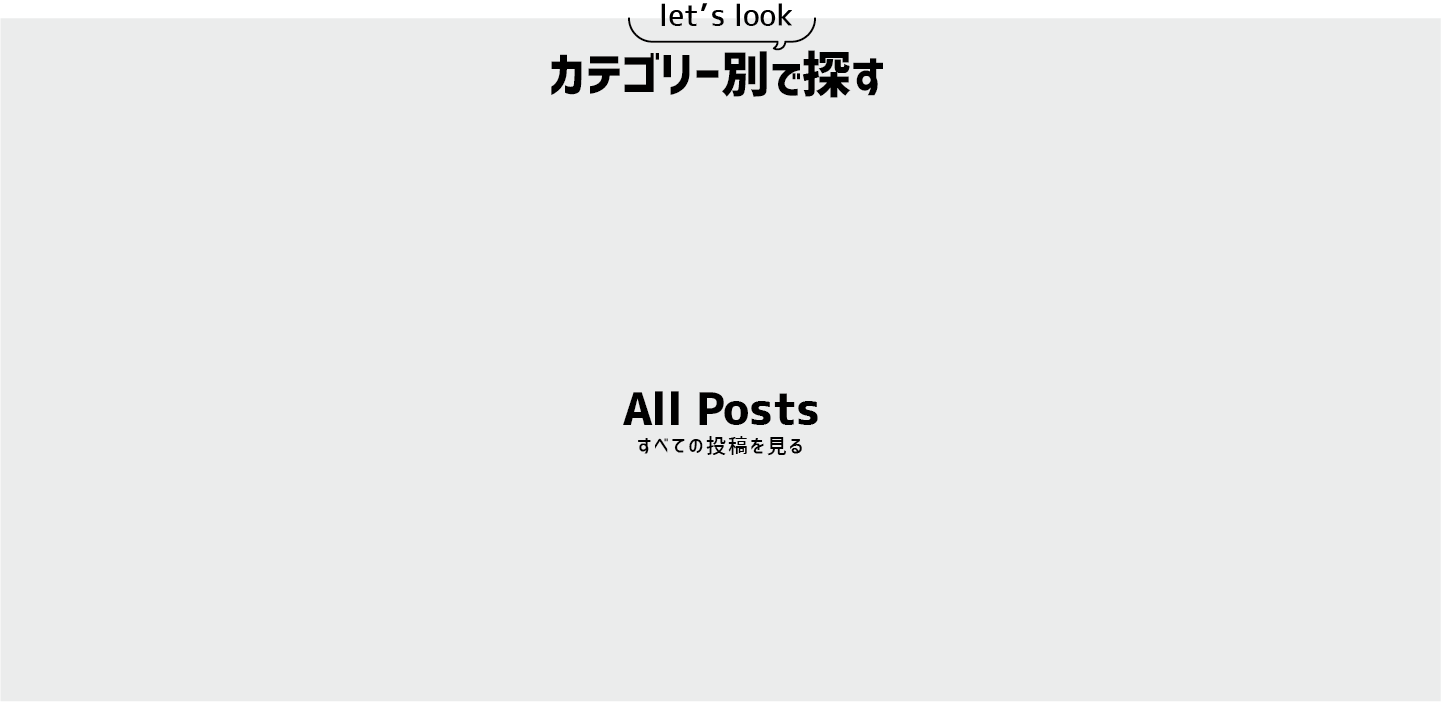
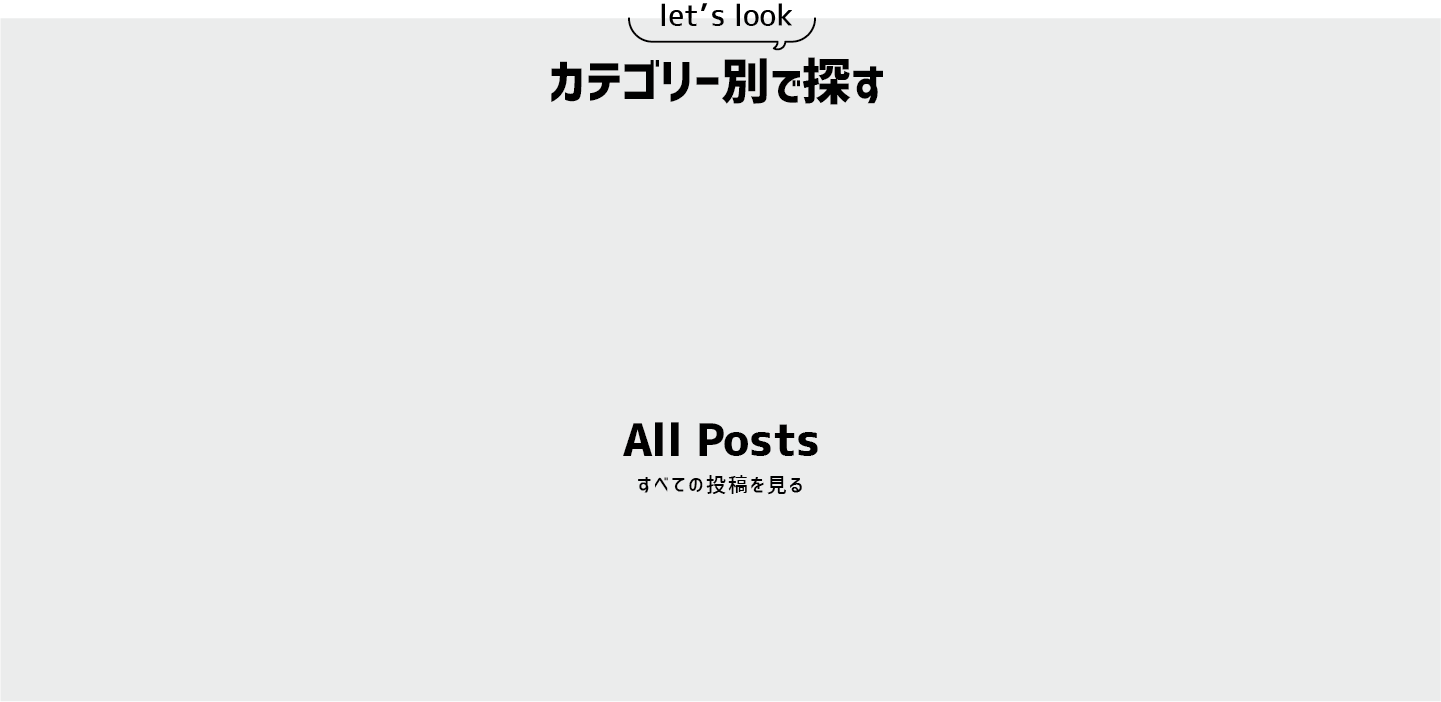
すべての投稿ページ作成

Changed region(s): [[0.4372, 0.5385, 0.5933, 0.7179], [0.3747, 0.0598, 0.6246, 0.1496]]

diff --git a/app/assets/stylesheets/home.scss b/app/assets/stylesheets/home.scss
@@ -227,7 +227,7 @@ ul{
 
 .category-content{
   position: relative;
-  height: 700px;
+  height: 660px;
   color: $TextColor;
   background-image: url('category-back-img.png');
 
@@ -250,18 +250,17 @@ ul{
   }
 
   & .all-posts{
-    width: 170px;
-    height: 40px;
+    width: 120px;
+    height: 30px;
     position: absolute;
-    top: 500px;
-    left: 50%;
+    top: 530px;
+    left: 75%;
     transform: translate(-50%, 0);
+    padding: 10px 0;
     border: 1px solid $MainColor;
-    border-radius: 5px;
     text-decoration: none;
     text-align: center;
-    font-size: 23px;
-    font-weight: 600;
+    font-size: 17px;
     color: $MainColor;
   }
 

diff --git a/app/assets/stylesheets/posts.scss b/app/assets/stylesheets/posts.scss
@@ -198,6 +198,7 @@ $TextColor: #001100;
     text-align: center;
     font-weight: 600;
     margin-top: 50px;
+    color: $MainColor;
   }
 
   & .index-content{

diff --git a/app/controllers/application_controller.rb b/app/controllers/application_controller.rb
@@ -1,5 +1,5 @@
 class ApplicationController < ActionController::Base
-  before_action :authenticate_user!, except: [:top, :search, :show, :basic, :feminine, :colorful, :stylish, :sneaker]
+  before_action :authenticate_user!, except: [:top, :search, :show, :basic, :feminine, :colorful, :stylish, :sneaker, :all_posts]
   before_action :configure_permitted_parameters, if: :devise_controller?
 
   def configure_permitted_parameters

diff --git a/config/routes.rb b/config/routes.rb
@@ -9,6 +9,7 @@ Rails.application.routes.draw do
       post :confirm
       get :draft
       get :index_all
+      get :all_posts
       get 'search' => 'posts#search'
       get 'basic' => 'posts#basic'
       get 'stylish' => 'posts#stylish'

diff --git a/app/controllers/posts_controller.rb b/app/controllers/posts_controller.rb
@@ -8,6 +8,10 @@ class PostsController < ApplicationController
     @posts = Post.published.all
   end
 
+  def all_posts
+    @posts = Post.published.all
+  end
+
   def new
     @post = Post.new
   end
